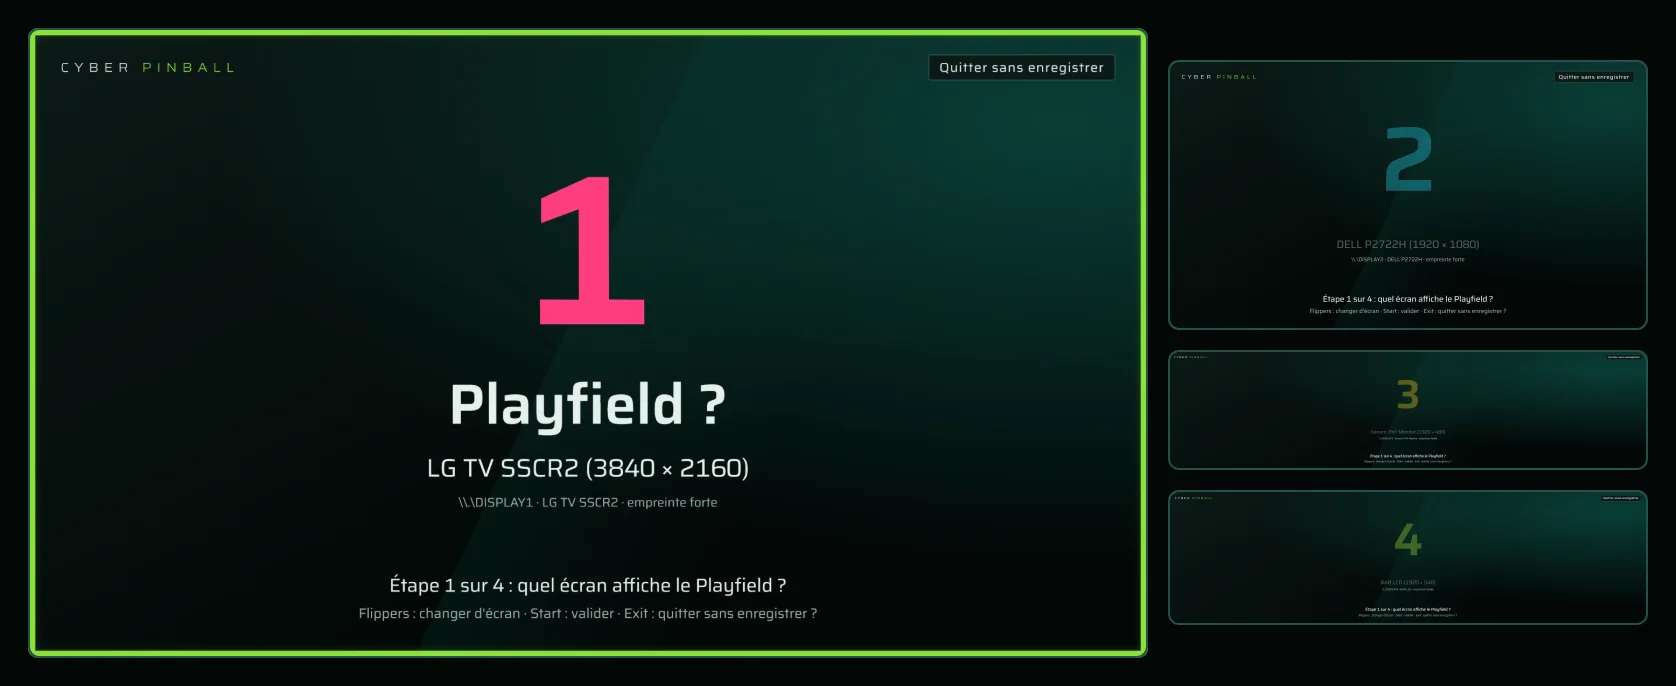
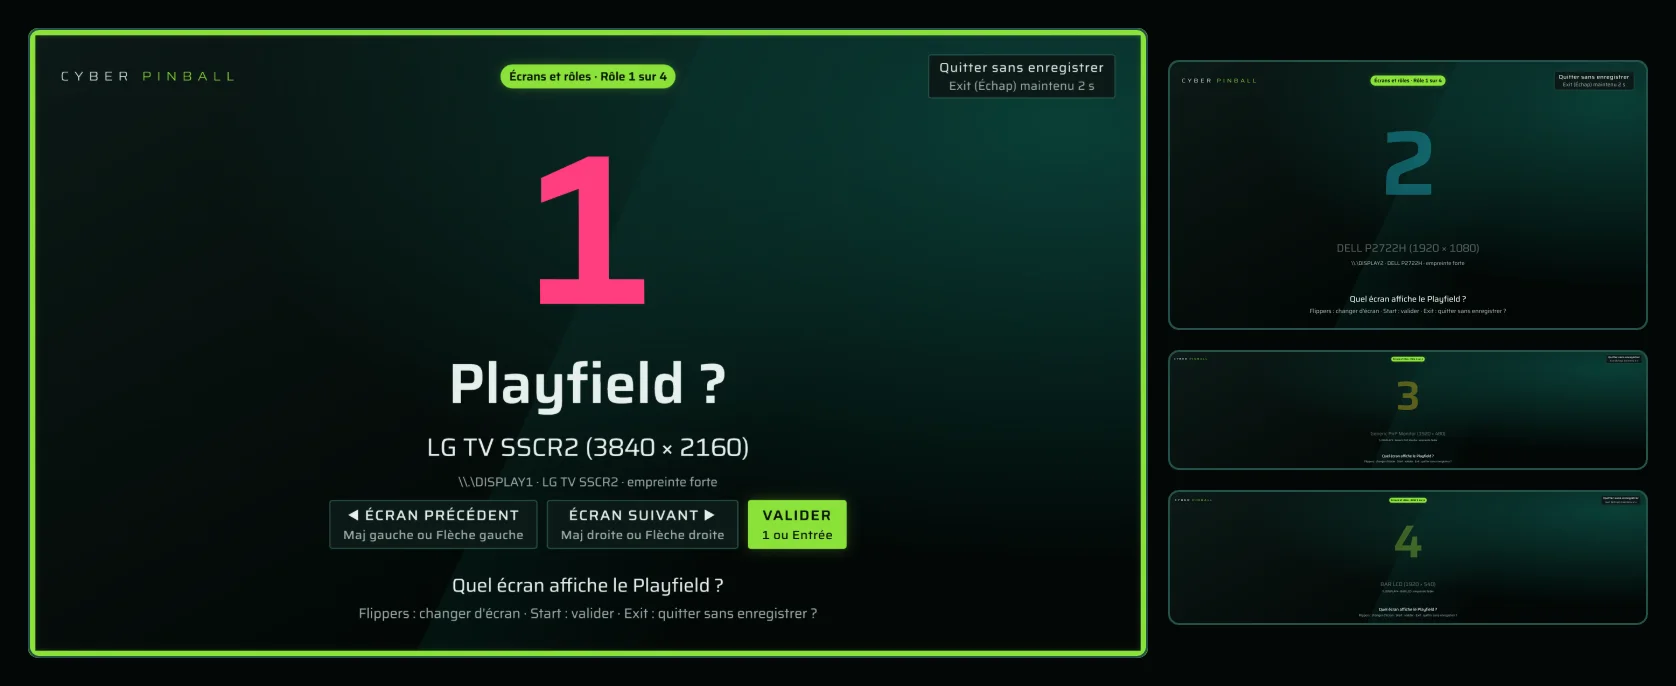
Cyber Pinball 0.2.3-essai.1

diff --git a/docs/fonctionnalites.md b/docs/fonctionnalites.md
@@ -4,7 +4,7 @@
 
 Le [README](../README.fr.md) présente Cyber Pinball en quelques images. Cette page détaille tout ce qu'il sait faire, rubrique par rubrique, tel que vous le trouvez sur la borne. Pour le fonctionnement interne (fichiers écrits, commandes, essais), voyez le [manuel technique](manuel.md).
 
-<p align="center"><img src="images/fr/cabinet.webp?v=7cf14b1872" width="900" alt="L'écran des tables sur une borne à quatre écrans. Sur le playfield, montré à la verticale : le plateau de la table sélectionnée, la roue de médaillons ronds et les commandes. À côté, le topper et le fronton du même jeu, Neon Abyss, et le DMD animé du front-end."></p>
+<p align="center"><img src="images/fr/cabinet.webp?v=06110cf93f" width="900" alt="L'écran des tables sur une borne à quatre écrans. Sur le playfield, montré à la verticale : le plateau de la table sélectionnée, la roue de médaillons ronds et les commandes. À côté, le topper et le fronton du même jeu, Neon Abyss, et le DMD animé du front-end."></p>
 
 <p align="center"><sub>Les tables présentées sont fictives.</sub></p>
 
@@ -50,7 +50,7 @@ Les bornes se relient directement entre elles, par Internet ou par le réseau lo
 <p align="center"><img src="images/fr/friends.webp?v=8306cc0c9e" width="760" alt="Mes amis : Bruno en ligne, en partie sur Star Courier avec son nouveau record, et Émile hors ligne ; à côté, la fiche de Bruno avec ses derniers événements et « Voir sa bibliothèque »."></p>
 
 <p align="center">
-  <img src="images/fr/features/friends-section.webp?v=e38b02af5d" width="300" alt="La rubrique Amis : Messages, Mes amis, Mon avatar, Mon profil public, Historique des parties, Trouver un joueur, Demandes d'amis, Mes badges, Partage et réseau, Scores des amis pendant la partie, Masquer les notifications pendant les parties.">
+  <img src="images/fr/features/friends-section.webp?v=dbd12fdd53" width="300" alt="La rubrique Communauté : Mon profil, Joueurs en ligne, Parties instantanées, Mes amis, Messages, Groupes et salons, Classements, Réglages de la communauté.">
   <img src="images/fr/features/badges.webp?v=3c2118215f" width="300" alt="Mes badges, 4 sur 8 : Première partie, Cent parties, Une heure sur une table et Dix heures de jeu obtenus ; Dix tables, Au tableau d'honneur, Grand Champion et Cinq fois champion à obtenir.">
 </p>
 
@@ -178,13 +178,13 @@ Les bornes se relient directement entre elles, par Internet ou par le réseau lo
 - **Versions reçues** : versions finales (par défaut) ou préversions aussi ; pour qui maintient Cyber Pinball, les essais d'un canal privé, que seules ses bornes voient.
 - **« Nous suivre »** (Menu système > Aide et infos) : la page Facebook, en français ou en anglais selon la langue de la borne, les tutoriels vidéo sur YouTube, et GitHub. Le QR code de la ligne choisie l'ouvre sur le téléphone, Start dans le navigateur intégré.
 
-<p align="center"><img src="images/fr/update.webp?v=678c1b367b" width="360" alt="Une mise à jour disponible : Cyber Pinball 0.2.0, sa date, ses nouveautés, la taille de l'installeur signé, et les boutons Mettre à jour maintenant et Plus tard."></p>
+<p align="center"><img src="images/fr/update.webp?v=8f09b7c09d" width="360" alt="Une mise à jour disponible : Cyber Pinball 0.3.0, sa date, ses nouveautés, la taille de l'installeur signé, et les boutons Mettre à jour maintenant et Plus tard."></p>
 
 ## Configurer la borne
 
 Au premier démarrage, l'assistant enchaîne toutes les étapes. Ensuite, Menu système > « Ma borne » > « Configuration de la borne » refait chacune à part : elle ne change que ses propres réglages.
 
-<p align="center"><img src="images/fr/wizard.webp?v=86d475eb65" width="900" alt="L'assistant, étape Écrans et rôles : chaque écran affiche son numéro, et le playfield demande « Playfield ? » avec les commandes des flippers et de Start."></p>
+<p align="center"><img src="images/fr/wizard.webp?v=90f21274f2" width="900" alt="L'assistant, étape Écrans et rôles : chaque écran affiche son numéro, et le playfield demande « Playfield ? » avec les commandes des flippers et de Start."></p>
 
 <p align="center">
   <img src="images/fr/features/cabinet-setup.webp?v=94f106b884" width="300" alt="Configuration de la borne : chaque étape se refait seule, des boutons du jeu au son de la borne, avec l'assistant complet et les touches par défaut des encodeurs.">
@@ -397,7 +397,7 @@ Au premier démarrage, l'assistant enchaîne toutes les étapes. Ensuite, Menu s
 - **Une icône par menu**, dessinée pour Cyber Pinball.
 - **Sélecteur de fichiers intégré**, à la place de celui de Windows : téléchargements, dossier d'import, Bureau, clés USB et disques, aux boutons, à la souris ou au clavier.
 
-<p align="center"><img src="images/fr/system-menu.webp?v=5646ca729d" width="360" alt="Le menu système : Activité récente, Collections, Amis, Tables, Médias, Juke-box, Téléchargements, Télécommande du téléphone, Borne et Cyber Pinball, chacune avec un résumé de son contenu."></p>
+<p align="center"><img src="images/fr/system-menu.webp?v=b036487e6b" width="360" alt="Le Menu système : Tables, Ma borne, Téléchargements, Activité récente, Communauté, Juke-box, Aide et infos, Quitter ou éteindre, chacune avec un résumé de son contenu."></p>
 
 <p align="center"><img src="images/fr/features/controls.webp?v=b76db12917" width="360" alt="L'aide-mémoire des commandes : dans le front-end (choisir une table, fiche, réglages de VPX, bureau Windows, partie bloquée) et pendant une partie (flippers, lanceur, crédit, MagnaSave, pause, tilt, volume)."></p>
 
@@ -493,7 +493,7 @@ Au premier démarrage, l'assistant enchaîne toutes les étapes. Ensuite, Menu s
 - **« Prospectus et règles »** : un seul livret, page par page, tourné pour le joueur. Les règles se trouvent seules : la carte et le texte rangés dans la table, une feuille de règles publique (The Pinball Primer, Pinball Rule Sheets), une vidéo d'explication à regarder sur le téléphone ; les commandes de la partie viennent toujours en dernier. Pour une dizaine de tables, un guide du jeu ouvre le livret : le but, puis un objectif par page, avec les coups numérotés sur le plateau et les tirs depuis les flippers.
 - **« Diagnostiquer et réparer »** : le diagnostic de la table (voir [Une borne qui s'entretient](#une-borne-qui-sentretient)).
 
-<p align="center"><img src="images/fr/game-page.webp?v=5bd3333057" width="360" alt="La fiche du jeu Neon Abyss : ses statistiques de jeu et ses fichiers, puis Jouer, Jouer avec un ami, Tableau des scores, Prospectus et règles, Ajouter aux favoris, Ajouter à une collection et Gérer la table."></p>
+<p align="center"><img src="images/fr/game-page.webp?v=bea681104c" width="360" alt="La fiche du jeu Neon Abyss : ses statistiques de jeu et ses fichiers, puis Jouer, Jouer avec un ami, Tableau des scores, Prospectus et règles, Ajouter aux favoris, Ajouter à une collection et Gérer la table."></p>
 
 <p align="center">
   <img src="images/fr/features/all-tables.webp?v=4edcfce892" width="300" alt="Toutes les tables : les sept tables avec leur fabricant, leur année et leur nombre de parties.">
@@ -541,7 +541,7 @@ Au premier démarrage, l'assistant enchaîne toutes les étapes. Ensuite, Menu s
 - **« Régler l'affichage en partie »** sur la fiche : la table démarre sur le cadrage (point de vue, fronton, DMD, topper), et cette partie ne compte pas dans les statistiques.
 - **Les questions de VPX évitées** (ActiveX, casque VR) ; une boîte de dialogue de VPX arrête la partie et son texte devient le message à l'écran.
 
-<p align="center"><img src="images/fr/vpx-settings.webp?v=b26434761e" width="760" alt="Les réglages de VPX : l'onglet Essentiels avec les réglages de la vue et du son, les valeurs gérées par Cyber Pinball, et le détail du réglage choisi."></p>
+<p align="center"><img src="images/fr/vpx-settings.webp?v=39a5059c42" width="760" alt="Les réglages de VPX : l'onglet Essentiels avec les réglages de la vue et du son, les valeurs gérées par Cyber Pinball, et le détail du réglage choisi."></p>
 
 ## Médias des jeux
 

diff --git a/docs/features.md b/docs/features.md
@@ -4,7 +4,7 @@ English · [Français](fonctionnalites.md)
 
 The [README](../README.md) introduces Cyber Pinball in a few pictures. This page lists everything it does, section by section, as you find it on the cabinet. For the inner workings (files written, commands, tests), see the [technical manual](manual.md).
 
-<p align="center"><img src="images/en/cabinet.webp?v=509ed89f07" width="900" alt="The table menu on a four-screen cabinet: the playfield screen, shown upright, with the selected table's playfield, the wheel of round table medallions and the button hints; next to it the topper and the backglass of the same game, Neon Abyss, and the menu's animated DMD."></p>
+<p align="center"><img src="images/en/cabinet.webp?v=9bb563a1c9" width="900" alt="The table menu on a four-screen cabinet: the playfield screen, shown upright, with the selected table's playfield, the wheel of round table medallions and the button hints; next to it the topper and the backglass of the same game, Neon Abyss, and the menu's animated DMD."></p>
 
 <p align="center"><sub>Tables shown are fictional.</sub></p>
 
@@ -50,7 +50,7 @@ Cabinets link directly to each other, over the Internet or the local network, wi
 <p align="center"><img src="images/en/friends.webp?v=9353564220" width="760" alt="My friends: Bruno online, playing Star Courier with his new high score, and Émile offline; next to it, Bruno's page with his latest events and See their library."></p>
 
 <p align="center">
-  <img src="images/en/features/friends-section.webp?v=e5c1ff7c24" width="300" alt="The Friends section: Messages, My friends, My avatar, My public profile, Game history, Find a player, Friend requests, My badges, Sharing and network, Friends' scores during the game, Hide notifications during games.">
+  <img src="images/en/features/friends-section.webp?v=461559af82" width="300" alt="The Community section: My profile, Players online, Instant games, My friends, Messages, Groups and rooms, Leaderboards, Community settings.">
   <img src="images/en/features/badges.webp?v=b6caa8b6b3" width="300" alt="My badges, 4 of 8: First game, A hundred games, An hour on one table and Ten hours of play earned; Ten tables, On the high-score board, Grand Champion and Five-time champion still to earn.">
 </p>
 
@@ -178,13 +178,13 @@ Cabinets link directly to each other, over the Internet or the local network, wi
 - **Versions received**: final versions (the default) or pre-releases too; for whoever maintains Cyber Pinball, tests from a private channel that only their own cabinets see.
 - **"Follow us"** (System menu > Help and info): the Facebook page, in French or English depending on the cabinet's language, the video tutorials on YouTube, and GitHub. The QR code of the chosen line opens it on the phone, Start in the built-in browser.
 
-<p align="center"><img src="images/en/update.webp?v=fa0c1e19dd" width="360" alt="An update is available: Cyber Pinball 0.2.0, its release date, what's new, the size of the signed installer, and the Update now and Later buttons."></p>
+<p align="center"><img src="images/en/update.webp?v=260d468578" width="360" alt="An update is available: Cyber Pinball 0.3.0, its release date, what's new, the size of the signed installer, and the Update now and Later buttons."></p>
 
 ## Set up the cabinet
 
 On first start, the wizard runs through every step. Afterwards, System menu > "My cabinet" > "Cabinet setup" runs each one on its own: it only changes its own settings.
 
-<p align="center"><img src="images/en/wizard.webp?v=61a3eb8d13" width="900" alt="The setup wizard, Screens and roles step: each screen shows its number, and the playfield asks “Playfield?” with the flipper and Start hints."></p>
+<p align="center"><img src="images/en/wizard.webp?v=6fd765b106" width="900" alt="The setup wizard, Screens and roles step: each screen shows its number, and the playfield asks “Playfield?” with the flipper and Start hints."></p>
 
 <p align="center">
   <img src="images/en/features/cabinet-setup.webp?v=c62c848439" width="300" alt="Cabinet setup: each step can be run on its own, from the game buttons to the cabinet sound, with the full wizard and the encoders' default keys.">
@@ -397,7 +397,7 @@ On first start, the wizard runs through every step. Afterwards, System menu > "M
 - **An icon for every menu**, drawn for Cyber Pinball.
 - **A built-in file picker**, in place of Windows': downloads, the import folder, the Desktop, USB sticks and drives, from the buttons, the mouse or the keyboard.
 
-<p align="center"><img src="images/en/system-menu.webp?v=4606414e88" width="360" alt="The system menu: Recent activity, Collections, Friends, Tables, Media, Juke-box, Downloads, Phone remote, Cabinet and Cyber Pinball, each with what it holds."></p>
+<p align="center"><img src="images/en/system-menu.webp?v=ab053aa4a7" width="360" alt="The system menu: Tables, My cabinet, Downloads, Recent activity, Community, Juke-box, Help and info, Quit or shut down, each with what it holds."></p>
 
 <p align="center"><img src="images/en/features/controls.webp?v=6415a94deb" width="360" alt="The controls cheat sheet: in the menu (choose a table, game page, VPX settings, Windows desktop, stuck game) and during a game (flippers, plunger, coin, MagnaSave, pause, tilt, volume)."></p>
 
@@ -493,7 +493,7 @@ On first start, the wizard runs through every step. Afterwards, System menu > "M
 - **"Flyer and rules"**: a single booklet, page by page, turned for the player. The rules are found automatically: the card and text stored in the table, a public rulesheet (The Pinball Primer, Pinball Rule Sheets), a tutorial video to watch on the phone; the game controls always come last. For about ten tables, a game guide opens the booklet: the goal, then one objective per page, with the shots numbered on the playfield and the shots from the flippers.
 - **"Diagnose and fix"**: the table diagnosis (see [A cabinet that looks after itself](#a-cabinet-that-looks-after-itself)).
 
-<p align="center"><img src="images/en/game-page.webp?v=5a9f437c7d" width="360" alt="The game page of Neon Abyss: its play statistics and files, then Play, Play with a friend, Scoreboard, Flyer and rules, Add to favourites, Add to a collection and Manage the table."></p>
+<p align="center"><img src="images/en/game-page.webp?v=18c87f4ff4" width="360" alt="The game page of Neon Abyss: its play statistics and files, then Play, Play with a friend, Scoreboard, Flyer and rules, Add to favourites, Add to a collection and Manage the table."></p>
 
 <p align="center">
   <img src="images/en/features/all-tables.webp?v=14d154367e" width="300" alt="All tables: the seven tables with their manufacturer, year and number of games played.">
@@ -541,7 +541,7 @@ On first start, the wizard runs through every step. Afterwards, System menu > "M
 - **"Adjust display in game"** on a table's page: the table starts on its framing (point of view, backglass, DMD, topper), and that game doesn't count in the statistics.
 - **VPX's questions avoided** (ActiveX, VR headset); a VPX dialog box stops the game and its text becomes the on-screen message.
 
-<p align="center"><img src="images/en/vpx-settings.webp?v=03be4e0581" width="760" alt="The VPX settings screen: the Essentials tab with table view and sound settings, the values managed by Cyber Pinball, and the description of the selected setting."></p>
+<p align="center"><img src="images/en/vpx-settings.webp?v=facacf2474" width="760" alt="The VPX settings screen: the Essentials tab with table view and sound settings, the values managed by Cyber Pinball, and the description of the selected setting."></p>
 
 ## Game media
 

diff --git a/README.fr.md b/README.fr.md
@@ -23,7 +23,7 @@ Windows 10 ou 11, 64 bits. Ces liens téléchargent toujours la dernière versio
 
 <p align="center"><sub>Nous suivre : <a href="https://www.facebook.com/cyberpinball.fr">les nouveautés et vos questions sur Facebook</a> · <a href="https://www.youtube.com/@cyberpinball">les tutoriels vidéo sur YouTube</a></sub></p>
 
-<p align="center"><img src="docs/images/fr/cabinet.webp?v=7cf14b1872" width="900" alt="L'écran des tables sur une borne à quatre écrans. Sur le playfield, montré à la verticale : le plateau de la table sélectionnée, la roue de médaillons ronds et les commandes. À côté, le topper et le fronton du même jeu, Neon Abyss, et le DMD animé du menu."></p>
+<p align="center"><img src="docs/images/fr/cabinet.webp?v=06110cf93f" width="900" alt="L'écran des tables sur une borne à quatre écrans. Sur le playfield, montré à la verticale : le plateau de la table sélectionnée, la roue de médaillons ronds et les commandes. À côté, le topper et le fronton du même jeu, Neon Abyss, et le DMD animé du menu."></p>
 
 <p align="center"><sub>Les tables présentées sont fictives.</sub></p>
 
@@ -120,7 +120,7 @@ Une partie entre amis, chacun chez soi ? Cyber Pinball relie directement vos bor
 
 ## Tout se règle depuis la borne
 
-<p align="center"><img src="docs/images/fr/wizard.webp?v=86d475eb65" width="900" alt="L'assistant de configuration, à l'étape des écrans et de leurs rôles : chacun des quatre écrans affiche son numéro, et celui du playfield demande « Playfield ? », avec les consignes pour les flippers et Start."></p>
+<p align="center"><img src="docs/images/fr/wizard.webp?v=90f21274f2" width="900" alt="L'assistant de configuration, à l'étape des écrans et de leurs rôles : chacun des quatre écrans affiche son numéro, et celui du playfield demande « Playfield ? », avec les consignes pour les flippers et Start."></p>
 
 - **Un assistant qui se suit debout, aux flippers.** Boutons (encodeur clavier, manette ou Pinscape KL25Z), lanceur analogique, accéléromètre et plomb de tilt, écrans, orientation et diagonale du playfield, sorties audio : à chaque étape, on répond avec les boutons de la borne.
 - **Des écrans reconnus, pas simplement numérotés.** Chaque écran est identifié par son empreinte EDID, et `VPinballX.ini` est réécrit à chaque démarrage. Vous pouvez remplacer un écran, les allumer dans un autre ordre ou laisser Windows tout renuméroter : le playfield reste le playfield. Un écran qui se débranche puis revient, même en pleine partie, retrouve son rôle.
@@ -129,7 +129,7 @@ Une partie entre amis, chacun chez soi ? Cyber Pinball relie directement vos bor
 - **Les LED et les retours de la borne (DOF).** Les contrôleurs (Pinscape, LedWiz, Teensy…) sont reconnus, la configuration du configtool s'importe d'elle-même, et vos bandes de LED adressables se décrivent à l'écran : Cyber Pinball écrit le `Cabinet.xml`, et dit ce qui empêche une LED de s'allumer.
 - **Les réglages de VPX sans toucher au `.ini`.** Tous les réglages de VPX, repris de son code source, se modifient pour l'ensemble des tables ou table par table. Le cadrage et l'emplacement du fronton, du DMD et du topper se règlent pendant la partie, depuis le menu de VPX.
 
-<p align="center"><img src="docs/images/fr/vpx-settings.webp?v=b26434761e" width="760" alt="L'écran des réglages de VPX : l'onglet Essentiels, avec la vue de la table et le son, les valeurs gérées par Cyber Pinball et l'explication du réglage sélectionné."></p>
+<p align="center"><img src="docs/images/fr/vpx-settings.webp?v=39a5059c42" width="760" alt="L'écran des réglages de VPX : l'onglet Essentiels, avec la vue de la table et le son, les valeurs gérées par Cyber Pinball et l'explication du réglage sélectionné."></p>
 
 ## Réalité virtuelle et Vision 3D (bêta)
 
@@ -153,7 +153,7 @@ Une partie entre amis, chacun chez soi ? Cyber Pinball relie directement vos bor
 ## Les médias de votre choix, d'où qu'ils viennent
 
 <p align="center">
-  <img src="docs/images/fr/game-page.webp?v=5bd3333057" width="360" alt="La fiche du jeu Neon Abyss : ses statistiques de jeu et ses fichiers, puis Jouer, Jouer avec un ami, Tableau des scores, Prospectus et règles, Ajouter aux favoris, Ajouter à une collection et Gérer la table.">
+  <img src="docs/images/fr/game-page.webp?v=bea681104c" width="360" alt="La fiche du jeu Neon Abyss : ses statistiques de jeu et ses fichiers, puis Jouer, Jouer avec un ami, Tableau des scores, Prospectus et règles, Ajouter aux favoris, Ajouter à une collection et Gérer la table.">
   <img src="docs/images/fr/game-media.webp?v=587ec90bc4" width="360" alt="L'écran Médias du jeu de Neon Abyss : chaque média avec son aperçu, l'endroit où le front-end l'affiche et son rôle (logo de la roue, plateau, fronton, DMD…), puis le volume de ce jeu et les actions Chercher les médias et Chercher sur le web.">
 </p>
 
@@ -180,7 +180,7 @@ Une partie entre amis, chacun chez soi ? Cyber Pinball relie directement vos bor
 - **Le bureau rendu tel que vous l'avez laissé.** L'écran du playfield n'est pivoté que le temps où Cyber Pinball fonctionne. À chaque fermeture, même après un plantage, il retrouve son orientation.
 - **En français ou en anglais**, au choix dans le menu système (« Language / Langue »), dates et nombres compris.
 
-<p align="center"><img src="docs/images/fr/system-menu.webp?v=5646ca729d" width="360" alt="Le menu système : Activité récente, Collections, Amis, Tables, Médias, Juke-box, Téléchargements, Télécommande du téléphone, Borne et Cyber Pinball, chacune avec un résumé de son contenu."></p>
+<p align="center"><img src="docs/images/fr/system-menu.webp?v=b036487e6b" width="360" alt="Le Menu système : Tables, Ma borne, Téléchargements, Activité récente, Communauté, Juke-box, Aide et infos, Quitter ou éteindre, chacune avec un résumé de son contenu."></p>
 
 ## Prérequis
 

diff --git a/README.md b/README.md
@@ -23,7 +23,7 @@ Windows 10 or 11, 64-bit. These links always fetch the latest version, straight 
 
 <p align="center"><sub>Follow us: <a href="https://www.facebook.com/cyberpinball">news and your questions on Facebook</a> · <a href="https://www.youtube.com/@cyberpinball">step-by-step video tutorials on YouTube</a></sub></p>
 
-<p align="center"><img src="docs/images/en/cabinet.webp?v=509ed89f07" width="900" alt="The table menu on a four-screen cabinet: the playfield screen, shown upright, with the selected table's playfield, the wheel of round table medallions and the button hints; next to it the topper and the backglass of the same game, Neon Abyss, and the menu's animated DMD."></p>
+<p align="center"><img src="docs/images/en/cabinet.webp?v=9bb563a1c9" width="900" alt="The table menu on a four-screen cabinet: the playfield screen, shown upright, with the selected table's playfield, the wheel of round table medallions and the button hints; next to it the topper and the backglass of the same game, Neon Abyss, and the menu's animated DMD."></p>
 
 <p align="center"><sub>Tables shown are fictional.</sub></p>
 
@@ -120,7 +120,7 @@ Your cabinet is no longer an island. Cyber Pinball links cabinets directly to ea
 
 ## Set up from the cabinet itself
 
-<p align="center"><img src="docs/images/en/wizard.webp?v=61a3eb8d13" width="900" alt="The setup wizard, screens and roles step: each of the four screens shows its number, and the playfield screen asks “Playfield?” with the flipper and Start hints."></p>
+<p align="center"><img src="docs/images/en/wizard.webp?v=6fd765b106" width="900" alt="The setup wizard, screens and roles step: each of the four screens shows its number, and the playfield screen asks “Playfield?” with the flipper and Start hints."></p>
 
 - **A wizard you follow standing at the flippers.** Buttons (keyboard encoder, gamepad or Pinscape KL25Z), analog plunger, accelerometer and tilt bob, screens, playfield orientation and diagonal, sound outputs: each step is answered with the cabinet's own buttons.
 - **Screens recognised, not numbered.** Each monitor is identified by its EDID fingerprint, and `VPinballX.ini` is rewritten at every start. Swap a monitor, wake the screens in a different order, let Windows renumber everything: the playfield stays the playfield. A screen that drops out and comes back, even mid-game, gets its role back.
@@ -129,7 +129,7 @@ Your cabinet is no longer an island. Cyber Pinball links cabinets directly to ea
 - **Cabinet LEDs and feedback (DOF).** Controllers (Pinscape, LedWiz, Teensy…) are recognised, the configtool configuration imports itself, and your addressable LED strips are described on screen: Cyber Pinball writes the `Cabinet.xml` and tells you what keeps an LED from lighting.
 - **VPX settings without the `.ini`.** Every VPX setting, read from VPX's own source code, is editable globally or table by table. Framing and the position of the backglass, DMD and topper are adjusted on the running table, from VPX's menu.
 
-<p align="center"><img src="docs/images/en/vpx-settings.webp?v=03be4e0581" width="760" alt="The VPX settings screen: the Essentials tab with table view and sound settings, the values managed by Cyber Pinball, and the description of the selected setting."></p>
+<p align="center"><img src="docs/images/en/vpx-settings.webp?v=facacf2474" width="760" alt="The VPX settings screen: the Essentials tab with table view and sound settings, the values managed by Cyber Pinball, and the description of the selected setting."></p>
 
 ## Virtual reality and 3D vision (beta)
 
@@ -153,7 +153,7 @@ Your cabinet is no longer an island. Cyber Pinball links cabinets directly to ea
 ## Media from every source, chosen by you
 
 <p align="center">
-  <img src="docs/images/en/game-page.webp?v=5a9f437c7d" width="360" alt="The game page of Neon Abyss: its play statistics and files, then Play, Play with a friend, Scoreboard, Flyer and rules, Add to favourites, Add to a collection and Manage the table.">
+  <img src="docs/images/en/game-page.webp?v=18c87f4ff4" width="360" alt="The game page of Neon Abyss: its play statistics and files, then Play, Play with a friend, Scoreboard, Flyer and rules, Add to favourites, Add to a collection and Manage the table.">
   <img src="docs/images/en/game-media.webp?v=2c9b874489" width="360" alt="The Game media screen of Neon Abyss: each media item with its preview, where the menu shows it and its role (wheel logo, playfield, backglass, DMD…), then this game's volume and the actions Find media and Search the web.">
 </p>
 
@@ -180,7 +180,7 @@ Your cabinet is no longer an island. Cyber Pinball links cabinets directly to ea
 - **The desktop put back as it was.** The playfield screen is rotated only while Cyber Pinball runs; every exit, even after a crash, restores its orientation.
 - **English or French**, chosen in the system menu ("Language / Langue"), with dates and numbers to match.
 
-<p align="center"><img src="docs/images/en/system-menu.webp?v=4606414e88" width="360" alt="The system menu: Recent activity, Collections, Friends, Tables, Media, Juke-box, Downloads, Phone remote, Cabinet and Cyber Pinball, each with what it holds."></p>
+<p align="center"><img src="docs/images/en/system-menu.webp?v=ab053aa4a7" width="360" alt="The system menu: Tables, My cabinet, Downloads, Recent activity, Community, Juke-box, Help and info, Quit or shut down, each with what it holds."></p>
 
 ## Requirements
 

diff --git a/CHANGELOG.en.md b/CHANGELOG.en.md
@@ -7,6 +7,8 @@ section of [CHANGELOG.md](CHANGELOG.md) point by point (same versions, same numb
 `npm run publier` puts both languages in the update feed, where the cabinet shows the notes in
 its own language before installing, and in the GitHub release. Short sentences, written for the cabinet's user.
 
+## 0.2.3
+
 ## 0.2.2
 
 - A game paced by a screen slower than the playfield (backglass at 50 or 60 Hz with a 120 Hz playfield) is no longer reported as "The table is sluggish": the diagnosis names the screen that limits the game and says how to raise its refresh rate. VPX 10.8.1 draws all its screens at the pace of the slowest one.

diff --git a/CHANGELOG.md b/CHANGELOG.md
@@ -9,6 +9,8 @@ traduction, point par point, dans [CHANGELOG.en.md](CHANGELOG.en.md) (vérifié 
 le flux de mise à jour et la release GitHub reprennent les deux langues (la borne affiche celle de
 son interface).
 
+## 0.2.3
+
 ## 0.2.2
 
 - Une partie calée sur un écran plus lent que le playfield (backglass à 50 ou 60 Hz pour un playfield à 120 Hz) n'est plus présentée comme « La table rame » : le diagnostic nomme l'écran qui bride la partie et dit comment monter sa fréquence. La version 10.8.1 de VPX dessine tous ses écrans au rythme du plus lent.
